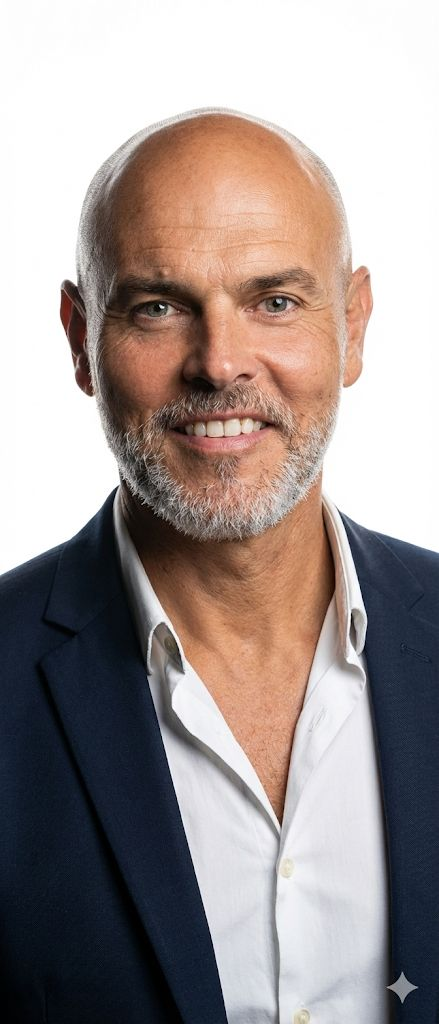
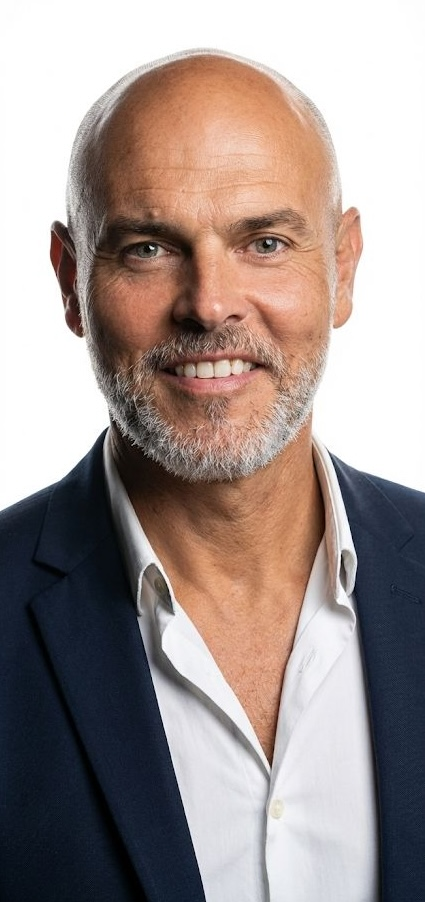
Fix SMS iOS (&body=) + nouvelle photo recadrée

diff --git a/index.html b/index.html
@@ -1041,7 +1041,11 @@ function buildSms(contact) {
   if (withCard) {
     msg += '\n\nMa carte de visite : ' + CARD_URL;
   }
-  return 'sms:' + contact.telephone + '?body=' + encodeURIComponent(msg);
+  // iOS exige '&body=' ; Android accepte '?body='
+  var sep = isIOS ? '&' : '?';
+  // Numéro sans espaces pour l'URL
+  var tel = contact.telephone.replace(/\s+/g, '');
+  return 'sms:' + tel + sep + 'body=' + encodeURIComponent(msg);
 }
 
 // ── New contact ───────────────────────────────────────────────

diff --git a/card.html b/card.html
@@ -47,7 +47,7 @@
     .photo-wrap {
       position: relative;
       width: 100%;
-      aspect-ratio: 439 / 620;   /* montre visage + buste + veste */
+      aspect-ratio: 425 / 600;   /* montre visage + buste + veste */
       overflow: hidden;
       background: #fff;
     }
